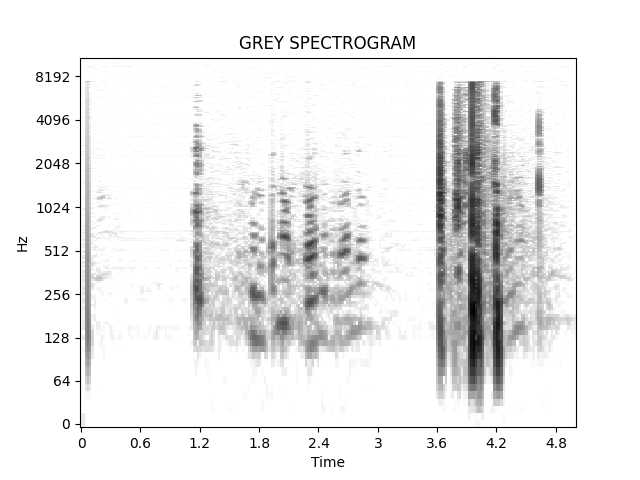
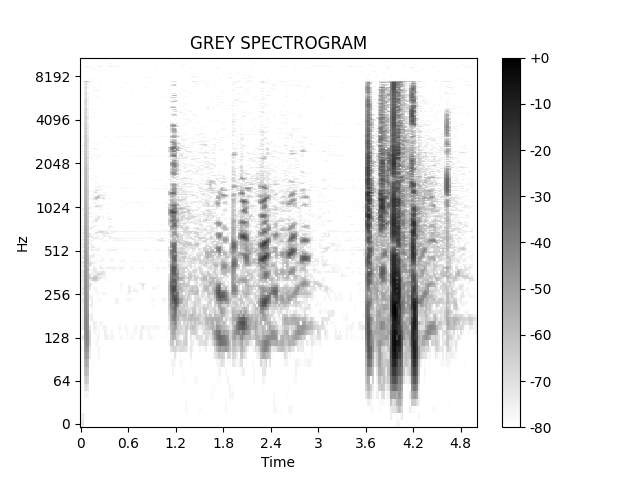
Agregados deltas de mfccs

diff --git a/PuebaFunciones1.py b/PuebaFunciones1.py
@@ -12,8 +12,11 @@ import scipy.fftpack as fourier #libreria para pasar al dominio de la frecuencia
 WAVEFORM_path_export = 'waveform'
 SPECTROGRAM_path_export='spectogram'
 GREYSPECTROGRAM_path_export='grey spectrogram'
+MELSPECTROGRAM_path_export='mel spectrogram'
 CHROMAGRAM_path_export='chromagram'
 MFCC_path_export='mfcc'
+DELTA_MFCC_path_export='delta mfccs'
+DELTA2_MFCC_path_export='delta2 mfccs'
 FvsA_path_export='FrequencyAmplitude'
 AMPLITUDEENV_path_export='amplitude envelope'
 RMSE_path_export='root mean square energy'
@@ -28,6 +31,7 @@ def LoadAudio_Turn2Decibels(clip):
     D = librosa.stft(y) 
     # STFT of y 
     S_db = librosa.amplitude_to_db(np.abs(D), ref=np.max) 
+    #, ref=np.max
 
     return y,S_db,sr
 
@@ -151,9 +155,11 @@ plt.close()
 
 """Spectrogram"""
 # SPECTROGRAM representation - object-oriented interface 
+plt.figure(figsize=(25, 10))
 fig, ax = plt.subplots() 
-img = librosa.display.specshow(S_db, x_axis='time', y_axis='linear', ax=ax) 
-img = librosa.display.specshow(S_db, x_axis='time', y_axis='log', ax=ax) 
+img = librosa.display.specshow(S_db, x_axis='time', y_axis='linear') 
+img = librosa.display.specshow(S_db, x_axis='time', y_axis='log') 
+plt.colorbar(format="%+2.f")
 ax.set(title='SPECTROGRAM') 
 guardarimagen(SPECTROGRAM_path_export,'Spectrogram',fig)
 plt.close()
@@ -161,17 +167,35 @@ plt.close()
 """Grey Spectrogram"""
 # SPECTROGRAM representation - object-oriented interface 
 fig, ax = plt.subplots() 
-img = librosa.display.specshow(S_db, x_axis='time', y_axis='linear', ax=ax) 
-img = librosa.display.specshow(S_db, x_axis='time', y_axis='log', ax=ax, cmap='gray_r') 
+img = librosa.display.specshow(S_db, x_axis='time', y_axis='linear') 
+img = librosa.display.specshow(S_db, x_axis='time', y_axis='log', cmap='gray_r') 
+plt.colorbar(format="%+2.f")
 ax.set(title='GREY SPECTROGRAM') 
 guardarimagen(GREYSPECTROGRAM_path_export,'Grey Spectrogram',fig)
+plt.close()
+
+"""Mel Spectrogram"""
+#Extracting Mel Spectrogram
+mel_spectrogram = librosa.feature.melspectrogram(y=y, sr=sr, n_fft=2048, hop_length=512, n_mels=90)
+log_mel_spectrogram = librosa.power_to_db(mel_spectrogram)
+
+plt.figure(figsize=(25, 10))
+fig, ax = plt.subplots() 
+img=librosa.display.specshow(log_mel_spectrogram, 
+                         x_axis="time",
+                         y_axis="mel", 
+                         sr=sr)
+plt.colorbar(format="%+2.f")
+ax.set(title='SPECTROGRAM') 
+guardarimagen(MELSPECTROGRAM_path_export,'Spectrogram',fig)
 plt.close()
 
 """Chromogram"""
 #CHROMAGRAM representation - object-oriented interface 
 CHROMAGRAM = librosa.feature.chroma_cqt(y=y, sr=sr) 
 fig, ax = plt.subplots() 
-img = librosa.display.specshow(CHROMAGRAM, y_axis='chroma', x_axis='time', ax=ax) 
+img = librosa.display.specshow(CHROMAGRAM, y_axis='chroma', x_axis='time') 
+plt.colorbar(format="%+2.f")
 ax.set(title='CHROMAGRAM') 
 guardarimagen(CHROMAGRAM_path_export,'Chromogram',fig)
 plt.close()
@@ -181,8 +205,31 @@ plt.close()
 mfccs = librosa.feature.mfcc(y=y, sr=sr, n_mfcc=13, n_fft=1200) 
 fig, ax = plt.subplots() 
 img = librosa.display.specshow(mfccs, x_axis='time') 
+plt.colorbar(format="%+2.f")
 ax.set(title='Mel-frequency cepstral coefficients (MFCCs)') 
 guardarimagen(MFCC_path_export,'MFCCs',fig)
+plt.close()
+
+"""Delta MFCCs"""
+delta_mfccs = librosa.feature.delta(mfccs)
+
+plt.figure(figsize=(25, 10))
+fig, ax = plt.subplots() 
+img = librosa.display.specshow(delta_mfccs, x_axis='time',sr=sr) 
+plt.colorbar(format="%+2.f")
+ax.set(title='Delta Mel-frequency cepstral coefficients (MFCCs)') 
+guardarimagen(DELTA_MFCC_path_export,'MFCCs',fig)
+plt.close()
+
+"""Delta2 MFCCs"""
+delta2_mfccs = librosa.feature.delta(mfccs, order=2)
+
+plt.figure(figsize=(25, 10))
+fig, ax = plt.subplots() 
+img = librosa.display.specshow(delta2_mfccs, x_axis='time',sr=sr) 
+plt.colorbar(format="%+2.f")
+ax.set(title='Delta2 Mel-frequency cepstral coefficients (MFCCs)') 
+guardarimagen(DELTA2_MFCC_path_export,'MFCCs',fig)
 plt.close()
 
 """Band Energy Ratio"""

diff --git a/MELPRUEBA.py b/MELPRUEBA.py
@@ -1,0 +1,55 @@
+import librosa
+import math
+import os
+import numpy as np
+import matplotlib.pyplot as plt
+import pyaudio #Libreria que ayuda para obtener el audio y darle formato
+import wave  #Permite leer y escribir archivos wav
+import winsound #Permite acceder a la maquinaria básica de reproducción de sonidos proporcionada por la plataformas Windows.
+import scipy.io.wavfile as waves #libreria importante para los datos del audio
+import scipy.fftpack as fourier #libreria para pasar al dominio de la frecuencia de forma sencilla
+
+MELSPECTROGRAM_path_export='mel spectogram'
+clip = (r'C:\Users\BHC4SLP\Documents\Python Projects\Proyecto2-GraficaAudio\redhot.wav')
+
+def guardarimagen(path_export,NombreImag,fig):
+    audio_filename = os.path.basename(os.path.normpath(clip)) 
+    image_filename_to_save = str(audio_filename).replace(".wav", "-", 1) + NombreImag+".png" 
+    if not os.path.exists(path_export): 
+        os.makedirs(path_export) 
+    fig.savefig(os.path.join(path_export,image_filename_to_save)) 
+
+scale, sr = librosa.load(clip)
+
+#Mel filter banks
+"""filter_banks = librosa.filters.mel(n_fft=2048, sr=22050, n_mels=10)
+plt.figure(figsize=(25, 10))
+librosa.display.specshow(filter_banks, 
+                         sr=sr, 
+                         x_axis="linear")
+plt.colorbar(format="%+2.f")
+plt.show()"""
+
+#Extracting Mel Spectrogram
+mel_spectrogram = librosa.feature.melspectrogram(y=scale, sr=sr, n_fft=2048, hop_length=512, n_mels=90)
+log_mel_spectrogram = librosa.power_to_db(mel_spectrogram)
+
+plt.figure(figsize=(25, 10))
+fig, ax = plt.subplots() 
+img=librosa.display.specshow(log_mel_spectrogram, 
+                         x_axis="time",
+                         y_axis="mel", 
+                         sr=sr)
+plt.colorbar(format="%+2.f")
+ax.set(title='SPECTROGRAM') 
+guardarimagen(MELSPECTROGRAM_path_export,'Spectrogram',fig)
+plt.close()
+
+"""Spectrogram
+# SPECTROGRAM representation - object-oriented interface 
+fig, ax = plt.subplots() 
+img = librosa.display.specshow(S_db, x_axis='time', y_axis='linear', ax=ax) 
+img = librosa.display.specshow(S_db, x_axis='time', y_axis='log', ax=ax) 
+ax.set(title='SPECTROGRAM') 
+guardarimagen(SPECTROGRAM_path_export,'Spectrogram',fig)
+plt.close()"""
